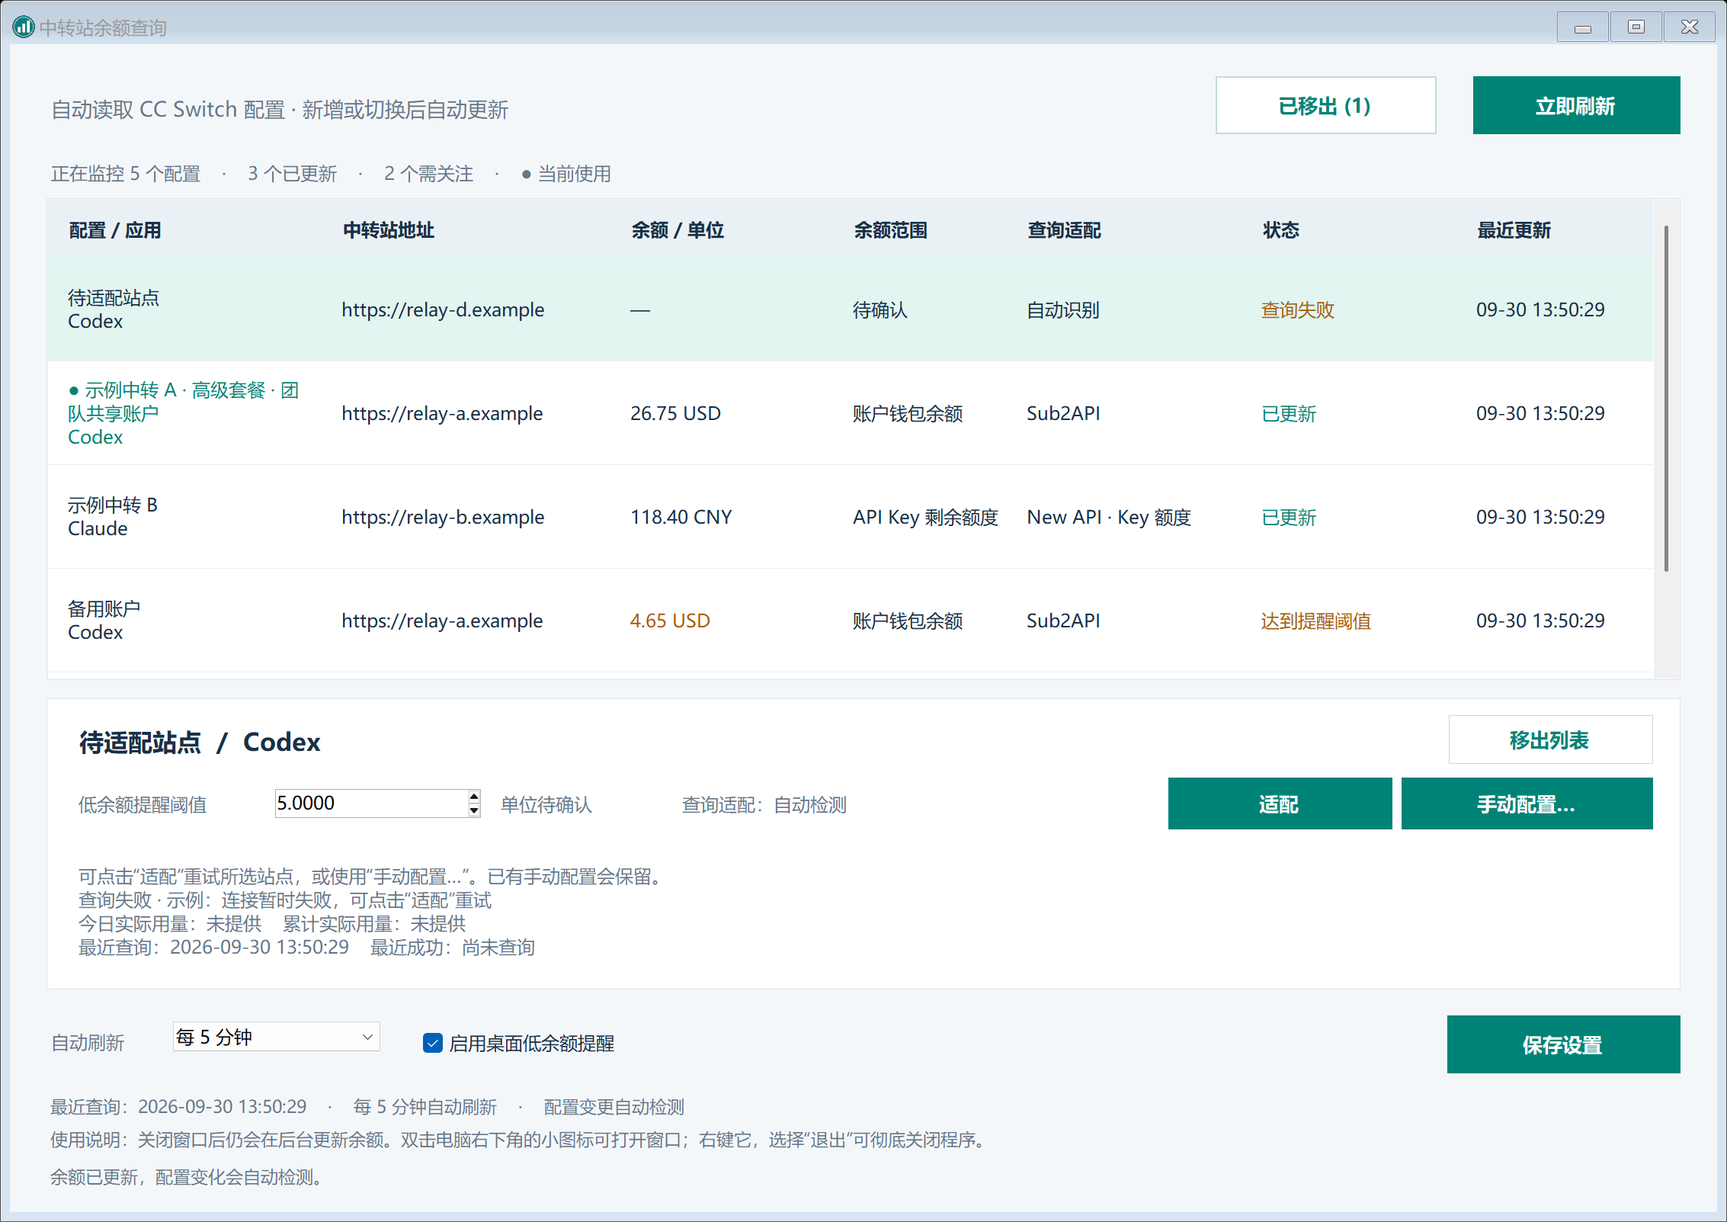
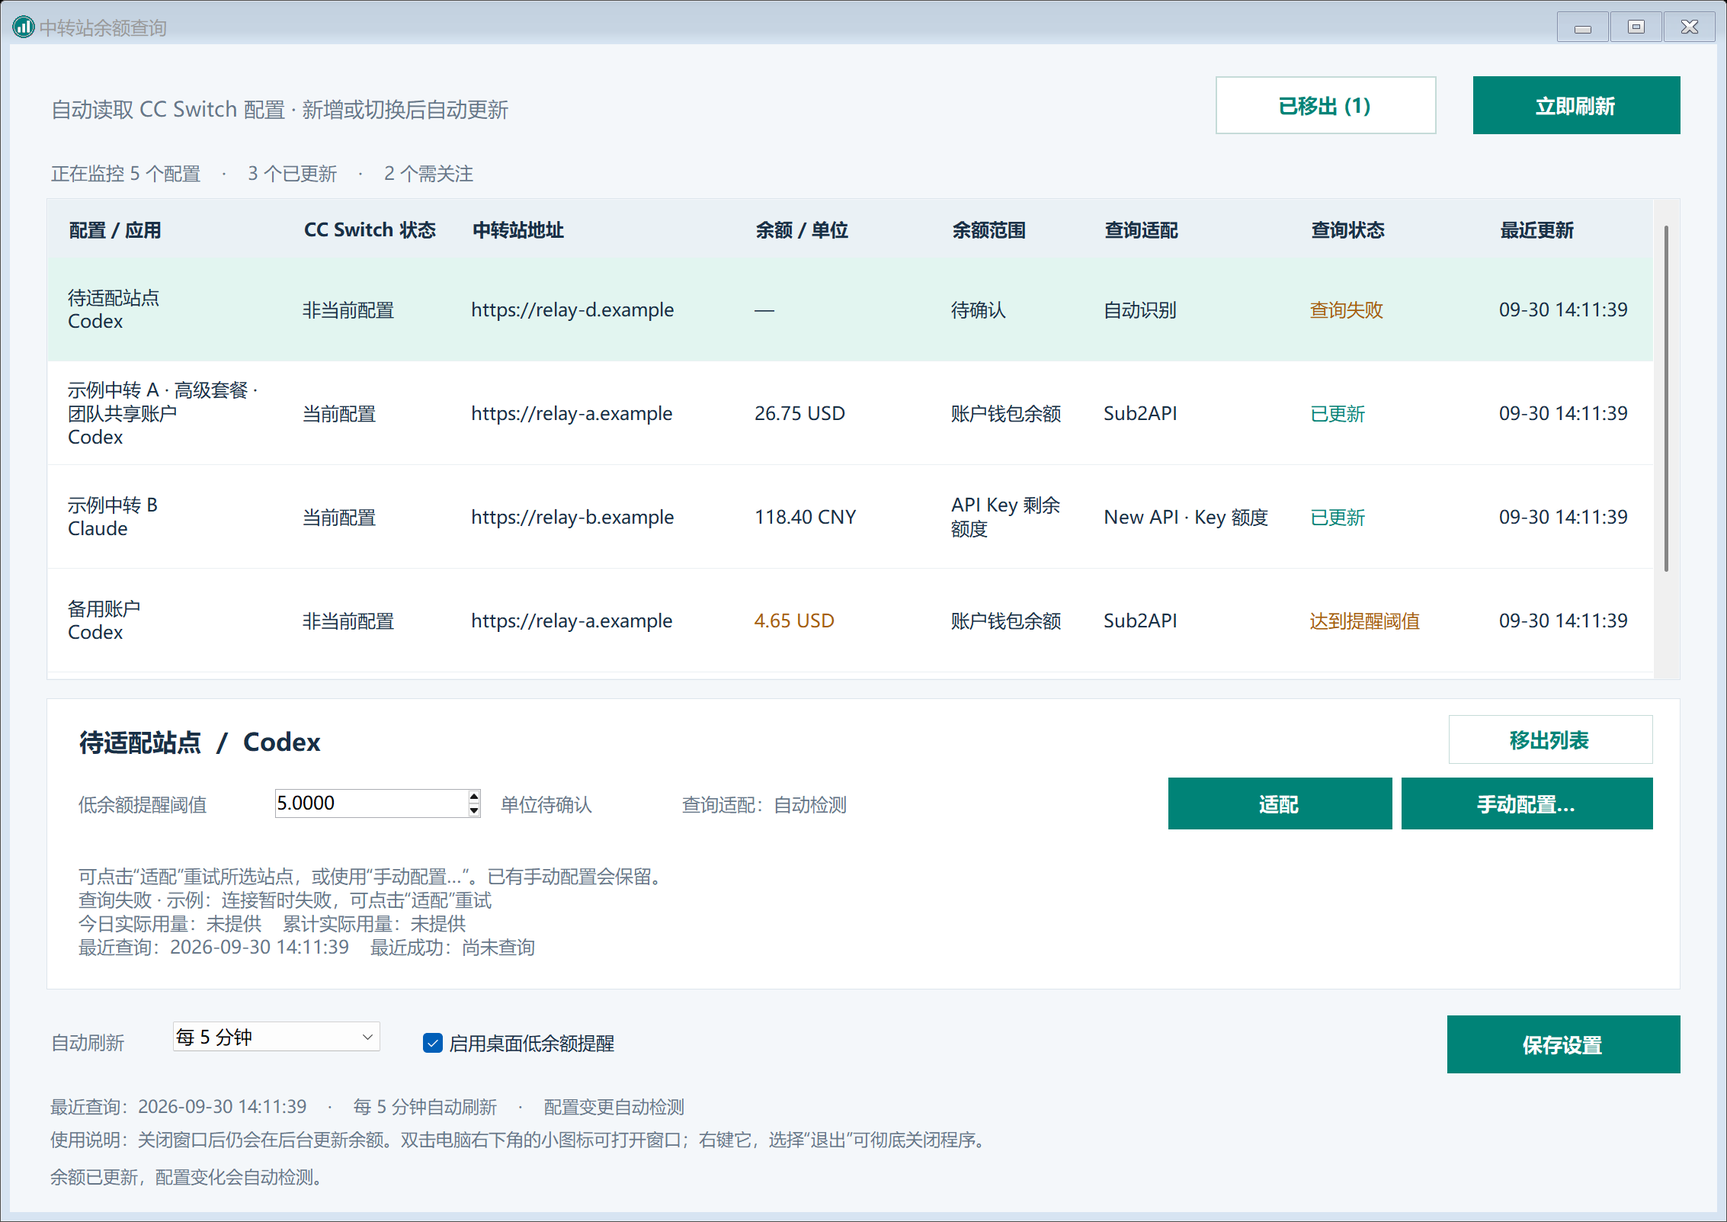
Separate CC Switch current configuration from row selection

diff --git a/src/Program.cs b/src/Program.cs
@@ -15,8 +15,8 @@ using System.Windows.Forms;
 [assembly: AssemblyDescription("自动发现 CC Switch 配置的本地 API 余额监控")]
 [assembly: AssemblyCompany("Relay Balance contributors")]
 [assembly: AssemblyProduct("Relay Balance Desktop")]
-[assembly: AssemblyVersion("1.1.5.0")]
-[assembly: AssemblyFileVersion("1.1.5.0")]
+[assembly: AssemblyVersion("1.1.6.0")]
+[assembly: AssemblyFileVersion("1.1.6.0")]
 
 namespace RelayBalanceDesktop
 {
@@ -74,7 +74,7 @@ namespace RelayBalanceDesktop
                 providers = new List<ProviderSnapshot>
                 {
                     new ProviderSnapshot { id="p-00000000000000000001",name="示例中转 A · 高级套餐 · 团队共享账户",app="codex",origin="https://relay-a.example",status="ok",remaining=26.7500,unit="USD",todayUsage=1.2500,totalUsage=73.25,threshold=5,current=true,adapter="sub2api",adapterLabel="Sub2API",balanceKindLabel="账户钱包余额",message="示例数据；余额来自站点接口，用量为当前 API Key 实际花费",updatedAt=time,lastSuccessAt=time },
-                    new ProviderSnapshot { id="p-00000000000000000002",name="示例中转 B",app="claude",origin="https://relay-b.example",status="ok",remaining=118.4000,unit="CNY",totalUsage=482.10,threshold=5,adapter="newapi-token",adapterLabel="New API · Key 额度",balanceKindLabel="API Key 剩余额度",message="示例数据；按站点公布比例换算，非账户钱包",updatedAt=time,lastSuccessAt=time },
+                    new ProviderSnapshot { id="p-00000000000000000002",name="示例中转 B",app="claude",origin="https://relay-b.example",status="ok",remaining=118.4000,unit="CNY",totalUsage=482.10,threshold=5,current=true,adapter="newapi-token",adapterLabel="New API · Key 额度",balanceKindLabel="API Key 剩余额度",message="示例数据；按站点公布比例换算，非账户钱包",updatedAt=time,lastSuccessAt=time },
                     new ProviderSnapshot { id="p-00000000000000000003",name="备用账户",app="codex",origin="https://relay-a.example",status="ok",remaining=4.6500,unit="USD",todayUsage=0,totalUsage=95.35,threshold=5,lowBalance=true,adapter="sub2api",adapterLabel="Sub2API",balanceKindLabel="账户钱包余额",message="示例数据；同站点不同配置分别显示",updatedAt=time,lastSuccessAt=time },
                     new ProviderSnapshot { id="p-00000000000000000004",name="未获取账户余额的示例配置",app="gemini",origin="https://relay-c.example",status="ok",remaining=null,unit="quota",threshold=5,unlimited=true,adapter="newapi-token",adapterLabel="New API · Key 额度",balanceKindLabel="API Key 限额（非余额）",message="API Key未设限额，不代表账户资金无限；当前Key未返回账户余额",updatedAt=time,lastSuccessAt=time },
                     new ProviderSnapshot { id="p-00000000000000000005",name="待适配站点",app="codex",origin="https://relay-d.example",status="unsupported",threshold=5,adapter="auto",adapterLabel="自动识别",message="适配失败，可点击“适配”重新尝试。手动配置可随时使用",updatedAt=time }
@@ -239,6 +239,28 @@ namespace RelayBalanceDesktop
                 form.Close();
             }
         }
+        private static void TestCurrentConfigurationPresentation()
+        {
+            using(BackendClient backend=new BackendClient())
+            using(BalanceForm form=new BalanceForm(backend,true))
+            {
+                form.StartPosition=FormStartPosition.Manual;form.Location=new Point(-30000,-30000);form.ShowInTaskbar=false;form.Show();
+                Snapshot snapshot=DemoSnapshot();form.ApplySnapshot(snapshot);Application.DoEvents();
+                DataGridView grid=FormField<DataGridView>(form,"_grid");
+                if(grid.Columns["ccSwitch"].DisplayIndex!=1 || grid.Columns["status"].HeaderText!="查询状态")throw new Exception("CC Switch status is not separate from query status");
+                if((string)grid.Rows[0].Cells["ccSwitch"].Value!="当前配置" || (string)grid.Rows[1].Cells["ccSwitch"].Value!="当前配置" || (string)grid.Rows[2].Cells["ccSwitch"].Value!="非当前配置")throw new Exception("per-application current configuration labels");
+                grid.CurrentCell=grid.Rows[2].Cells["provider"];Application.DoEvents();
+                if((string)grid.Rows[0].Cells["ccSwitch"].Value!="当前配置" || (string)grid.Rows[2].Cells["ccSwitch"].Value!="非当前配置")throw new Exception("row selection changes current configuration");
+                foreach(DataGridViewRow row in grid.Rows)
+                    if(((string)row.Cells["provider"].Value).StartsWith("● ") || row.Cells["provider"].InheritedStyle.ForeColor!=grid.DefaultCellStyle.ForeColor)throw new Exception("current configuration decorates provider name");
+                snapshot.providers[0].current=false;snapshot.providers[2].current=true;
+                form.ApplySnapshot(snapshot);Application.DoEvents();
+                if(grid.CurrentRow==null || (string)grid.CurrentRow.Tag!=snapshot.providers[2].id || !grid.Rows[2].Selected)throw new Exception("current configuration refresh changes selected row");
+                if((string)grid.Rows[0].Cells["ccSwitch"].Value!="非当前配置" || (string)grid.Rows[1].Cells["ccSwitch"].Value!="当前配置" || (string)grid.Rows[2].Cells["ccSwitch"].Value!="当前配置")throw new Exception("current configuration change not reflected");
+                if(FormField<Label>(form,"_summaryLabel").Text.Contains("●") || FormField<Label>(form,"_selectedTitle").Text.Contains("当前使用"))throw new Exception("ambiguous current-use label remains");
+                form.Close();
+            }
+        }
         private static void TestBalancePresentation()
         {
             using(BackendClient backend=new BackendClient())
@@ -247,7 +269,7 @@ namespace RelayBalanceDesktop
                 form.StartPosition=FormStartPosition.Manual;form.Location=new Point(-30000,-30000);form.ShowInTaskbar=false;form.Show();
                 Snapshot snapshot=DemoSnapshot();form.ApplySnapshot(snapshot);Application.DoEvents();AssertContentTitleRemoved(form);
                 DataGridView grid=FormField<DataGridView>(form,"_grid");
-                if((string)grid.Rows[3].Cells[2].Value!="未获取账户余额" || (string)grid.Rows[3].Cells[5].Value!="余额未获取")throw new Exception("unlimited key presented as account balance");
+                if((string)grid.Rows[3].Cells["balance"].Value!="未获取账户余额" || (string)grid.Rows[3].Cells["status"].Value!="余额未获取")throw new Exception("unlimited key presented as account balance");
                 if(!FormField<Label>(form,"_summaryLabel").Text.Contains("2 个需关注"))throw new Exception("missing account balance not flagged");
                 grid.CurrentCell=grid.Rows[3].Cells[0];Application.DoEvents();
                 if(!FormField<Label>(form,"_details").Text.Contains("当前Key未返回账户余额"))throw new Exception("unlimited key explanation missing");
@@ -257,11 +279,11 @@ namespace RelayBalanceDesktop
                 Dictionary<string,bool> pending=FormField<Dictionary<string,bool>>(form,"_pendingVisibility");pending[snapshot.providers[3].id]=true;
                 typeof(BalanceForm).GetMethod("ShowSelection",BindingFlags.NonPublic|BindingFlags.Instance).Invoke(form,null);if(getBalance.Enabled)throw new Exception("retrieval visibility guard");pending.Clear();
                 snapshot.providers[3].adapterConfig=new AdapterConfig{type="newapi-token",amountMode="manual",unit="CNY",divisor=500000,balanceKind="account"};snapshot.providers[3].unit="CNY";snapshot.providers[3].usageUnit="USD";snapshot.providers[3].todayUsage=1.25;
-                form.ApplySnapshot(snapshot);Application.DoEvents();if((string)grid.Rows[3].Cells[2].Value!="未获取账户余额" || !FormField<Label>(form,"_details").Text.Contains("1.25 USD"))throw new Exception("manual amount fabricated balance or changed usage unit");
+                form.ApplySnapshot(snapshot);Application.DoEvents();if((string)grid.Rows[3].Cells["balance"].Value!="未获取账户余额" || !FormField<Label>(form,"_details").Text.Contains("1.25 USD"))throw new Exception("manual amount fabricated balance or changed usage unit");
                 snapshot.providers[3].adapter="newapi-account";snapshot.providers[3].balanceKindLabel="账户余额";snapshot.providers[3].remaining=26.75;snapshot.providers[3].unit="USD";
-                form.ApplySnapshot(snapshot);Application.DoEvents();if((string)grid.Rows[3].Cells[2].Value!="26.75 USD")throw new Exception("real account balance hidden");
+                form.ApplySnapshot(snapshot);Application.DoEvents();if((string)grid.Rows[3].Cells["balance"].Value!="26.75 USD")throw new Exception("real account balance hidden");
                 snapshot.providers[3].adapter="sub2api";snapshot.providers[3].balanceKindLabel="订阅剩余额度";snapshot.providers[3].remaining=null;
-                form.ApplySnapshot(snapshot);Application.DoEvents();if((string)grid.Rows[3].Cells[2].Value!="不限额")throw new Exception("unlimited subscription changed");
+                form.ApplySnapshot(snapshot);Application.DoEvents();if((string)grid.Rows[3].Cells["balance"].Value!="不限额")throw new Exception("unlimited subscription changed");
                 snapshot.providers.Clear();form.ApplySnapshot(snapshot);Application.DoEvents();
                 AssertActionReachable(FormField<Button>(form,"_hiddenButton"));if(FormField<Button>(form,"_hideButton").Enabled)throw new Exception("empty list remove enabled");
                 snapshot.hiddenProviders.Clear();form.ApplySnapshot(snapshot);Application.DoEvents();AssertActionReachable(FormField<Button>(form,"_hiddenButton"));
@@ -282,7 +304,7 @@ namespace RelayBalanceDesktop
                 Snapshot snapshot=DemoSnapshot();snapshot.providers[0].adapterConfig=new AdapterConfig{type="newapi-token",amountMode="manual",unit="CNY",divisor=500000,balanceKind="key"};
                 snapshot.providers[0].unit="CNY";snapshot.providers[0].usageUnit="USD";form.ApplySnapshot(snapshot);Application.DoEvents();
                 DataGridView grid=FormField<DataGridView>(form,"_grid");grid.CurrentCell=grid.Rows[0].Cells[0];Application.DoEvents();
-                if(!((string)grid.Rows[0].Cells[3].Value).Contains("手动指定") || !FormField<Label>(form,"_details").Text.Contains("1.25 USD"))throw new Exception("manual scope or usage unit presentation");
+                if(!((string)grid.Rows[0].Cells["kind"].Value).Contains("手动指定") || !FormField<Label>(form,"_details").Text.Contains("1.25 USD"))throw new Exception("manual scope or usage unit presentation");
                 CaptureAdapterDialog(form,delegate(Form dialog) {
                     ComboBox type=DialogField<ComboBox>(dialog,"_type"),mode=DialogField<ComboBox>(dialog,"_amountMode"),kind=DialogField<ComboBox>(dialog,"_kind");
                     TextBox unit=DialogField<TextBox>(dialog,"_unit"),path=DialogField<TextBox>(dialog,"_path"),field=DialogField<TextBox>(dialog,"_remainingPath");NumericUpDown divisor=DialogField<NumericUpDown>(dialog,"_divisor");
@@ -434,9 +456,9 @@ namespace RelayBalanceDesktop
                     CheckBox notifications=(CheckBox)typeof(BalanceForm).GetField("_notifications",BindingFlags.NonPublic|BindingFlags.Instance).GetValue(form);
                     if(notifications.Checked)throw new Exception("notification reload");
                 }
-                TestProviderActions();
+                TestProviderActions();TestCurrentConfigurationPresentation();
                 TestBalancePresentation();TestAmountConfiguration();TestVisibilityLifecycle(runtime,fixture);
-                File.WriteAllText(report,"{\"passed\":true,\"checks\":[\"embedded runtime integrity\",\"empty database isolation\",\"dynamic providers\",\"settings persistence\",\"child process cleanup\",\"snapshot validation\",\"minimize to tray\",\"restore from tray\",\"close to tray\",\"tray exit and worker cleanup\",\"notification preference persistence\",\"adaptation and manual buttons reachable after selection refresh and resize\",\"manual configuration opens\",\"wrapped provider names and apps fit after refresh and resize\",\"content title removed\",\"hidden providers validated\",\"remove and restore through actual buttons\",\"visibility preserves unsaved settings\",\"visibility does not modify CC Switch\",\"unlimited key is not an account balance\",\"real account balance and unlimited subscription preserved\",\"missing balance retrieval action and busy guards\",\"built-in manual amount round trip and mode switching\",\"manual amount validation and custom compatibility\",\"usage unit remains independent of manual balance unit\"]}",new UTF8Encoding(false));
+                File.WriteAllText(report,"{\"passed\":true,\"checks\":[\"embedded runtime integrity\",\"empty database isolation\",\"dynamic providers\",\"settings persistence\",\"child process cleanup\",\"snapshot validation\",\"minimize to tray\",\"restore from tray\",\"close to tray\",\"tray exit and worker cleanup\",\"notification preference persistence\",\"adaptation and manual buttons reachable after selection refresh and resize\",\"manual configuration opens\",\"wrapped provider names and apps fit after refresh and resize\",\"content title removed\",\"hidden providers validated\",\"remove and restore through actual buttons\",\"visibility preserves unsaved settings\",\"visibility does not modify CC Switch\",\"unlimited key is not an account balance\",\"real account balance and unlimited subscription preserved\",\"missing balance retrieval action and busy guards\",\"built-in manual amount round trip and mode switching\",\"manual amount validation and custom compatibility\",\"usage unit remains independent of manual balance unit\",\"current configuration remains independent of row selection\"]}",new UTF8Encoding(false));
                 return 0;
             }
             catch (Exception ex) { File.WriteAllText(report,new JavaScriptSerializer().Serialize(new {passed=false,error=ex.Message}),new UTF8Encoding(false));return 1; }

diff --git a/src/BalanceForm.cs b/src/BalanceForm.cs
@@ -131,9 +131,9 @@ namespace RelayBalanceDesktop
             _grid.DefaultCellStyle.Padding = new Padding(10, 10, 0, 10); _grid.DefaultCellStyle.WrapMode = DataGridViewTriState.True;
             _grid.RowTemplate.MinimumHeight = 68; _grid.RowTemplate.Height = 68;
             _grid.AutoSizeRowsMode = DataGridViewAutoSizeRowsMode.AllCellsExceptHeaders;
-            AddColumn("provider", "配置 / 应用", 177, 154); AddColumn("origin", "中转站地址", 191, 140);
+            AddColumn("provider", "配置 / 应用", 177, 154); AddColumn("ccSwitch", "CC Switch 状态", 114, 110); AddColumn("origin", "中转站地址", 191, 140);
             AddColumn("balance", "余额 / 单位", 132, 117); AddColumn("kind", "余额范围", 103, 88);
-            AddColumn("adapter", "查询适配", 139, 110); AddColumn("status", "状态", 127, 110); AddColumn("updated", "最近更新", 117, 104);
+            AddColumn("adapter", "查询适配", 139, 110); AddColumn("status", "查询状态", 127, 110); AddColumn("updated", "最近更新", 117, 104);
             _grid.SelectionChanged += delegate { if (!_updatingGrid) SelectGridProvider(); };
             _grid.CellDoubleClick += delegate(object sender, DataGridViewCellEventArgs e) { if (e.RowIndex >= 0) ConfigureAdapter(); };
             tablePanel.Controls.Add(_grid);
@@ -286,13 +286,12 @@ namespace RelayBalanceDesktop
                     foreach (ProviderSnapshot p in data.providers)
                     {
                         if (p == null || String.IsNullOrEmpty(p.id)) continue; _providers[p.id] = p;
-                        int index = _grid.Rows.Add((p.current ? "● " : "") + p.name + "\r\n" + AppLabel(p.app), p.origin ?? "地址未配置", BalanceText(p), BalanceKindText(p), AdapterDisplay(p), StatusText(p), LocalDate(p.status == "stale" ? p.lastSuccessAt : p.updatedAt, false));
+                        int index = _grid.Rows.Add(p.name + "\r\n" + AppLabel(p.app), p.current ? "当前配置" : "非当前配置", p.origin ?? "地址未配置", BalanceText(p), BalanceKindText(p), AdapterDisplay(p), StatusText(p), LocalDate(p.status == "stale" ? p.lastSuccessAt : p.updatedAt, false));
                         DataGridViewRow row = _grid.Rows[index]; row.Tag = p.id;
-                        row.Cells[2].Style.ForeColor = p.status == "stale" ? Muted : (p.status == "ok" && p.lowBalance ? Warning : Ink);
-                        row.Cells[2].Style.SelectionForeColor = row.Cells[2].Style.ForeColor;
-                        row.Cells[5].Style.ForeColor = p.status == "ok" && !p.lowBalance && !MissingAccountBalance(p) ? Teal : ((p.status == "pending" || p.status == "disabled") ? Muted : Warning);
-                        row.Cells[5].Style.SelectionForeColor = row.Cells[5].Style.ForeColor;
-                        if (p.current) row.Cells[0].Style.ForeColor = Teal;
+                        row.Cells["balance"].Style.ForeColor = p.status == "stale" ? Muted : (p.status == "ok" && p.lowBalance ? Warning : Ink);
+                        row.Cells["balance"].Style.SelectionForeColor = row.Cells["balance"].Style.ForeColor;
+                        row.Cells["status"].Style.ForeColor = p.status == "ok" && !p.lowBalance && !MissingAccountBalance(p) ? Teal : ((p.status == "pending" || p.status == "disabled") ? Muted : Warning);
+                        row.Cells["status"].Style.SelectionForeColor = row.Cells["status"].Style.ForeColor;
                         if (p.status == "ok" && !MissingAccountBalance(p)) good++; else if (p.status != "pending" && p.status != "disabled") needsAttention++;
                         if (String.Equals(p.id, preserveId, StringComparison.Ordinal)) selectedIndex = index; HandleLowBalance(p);
                     }
@@ -308,7 +307,7 @@ namespace RelayBalanceDesktop
                 else _selectedId = null;
                 _emptyLabel.Text = _hiddenProviders.Count > 0 ? "列表中暂时没有监控项\r\n点击右上“已移出”可恢复配置，继续监控。" : "尚未发现可查询的中转站配置\r\n请先在 CC Switch 中添加 API 配置，再点击立即刷新。";
                 _emptyLabel.Visible = _grid.Rows.Count == 0; if (_emptyLabel.Visible) _emptyLabel.BringToFront();
-                _summaryLabel.Text = "正在监控 " + _providers.Count.ToString(CultureInfo.InvariantCulture) + " 个配置    ·    " + good.ToString(CultureInfo.InvariantCulture) + " 个已更新" + (needsAttention > 0 ? "    ·    " + needsAttention.ToString(CultureInfo.InvariantCulture) + " 个需关注" : "") + "    ·    ● 当前使用";
+                _summaryLabel.Text = "正在监控 " + _providers.Count.ToString(CultureInfo.InvariantCulture) + " 个配置    ·    " + good.ToString(CultureInfo.InvariantCulture) + " 个已更新" + (needsAttention > 0 ? "    ·    " + needsAttention.ToString(CultureInfo.InvariantCulture) + " 个需关注" : "");
                 List<string> removed = new List<string>(); foreach (string id in _lastLow.Keys) if (!_providers.ContainsKey(id)) removed.Add(id); foreach (string id in removed) _lastLow.Remove(id);
             }
             finally { _grid.AutoSizeRowsMode = DataGridViewAutoSizeRowsMode.AllCellsExceptHeaders; _grid.ResumeLayout(); _updatingGrid = false; }
@@ -377,7 +376,7 @@ namespace RelayBalanceDesktop
                 _thresholdUnit.Text = ""; _selectedAdapter.Text = "查询适配：自动检测"; _retryDetectionButton.Visible = false; _adapterButton.Text = "手动配置…";
                 _details.Text = "先在 CC Switch 中添加带有 API 地址的配置。无法自动识别的站点可按站点文档设置查询适配。"; return;
             }
-            _selectedTitle.Text = p.name + "  /  " + AppLabel(p.app) + (p.current ? "  ·  当前使用" : "");
+            _selectedTitle.Text = p.name + "  /  " + AppLabel(p.app);
             _updatingSettings = true; try { double value; if (_thresholds.TryGetValue(p.id, out value)) SetNumericValue(_threshold, value); } finally { _updatingSettings = false; }
             _threshold.Enabled = !_waitingForSettings; _adapterButton.Enabled = !_waitingForSettings; _thresholdUnit.Text = UnitLabel(p.unit); _hideButton.Enabled = !_pendingVisibility.ContainsKey(p.id);
             _tips.SetToolTip(_threshold, "余额小于或等于此值时提醒。支持 USD、CNY、EUR、GBP、JPY、HKD；原始额度暂不触发金额提醒。设为 0 可停用正余额提醒。");

diff --git a/src/RuntimeBundle.cs b/src/RuntimeBundle.cs
@@ -10,7 +10,7 @@ namespace RelayBalanceDesktop
     {
         public static string Prepare()
         {
-            string directory = Path.Combine(Program.DataDirectory, "runtime", "1.1.5-" + RuntimeManifest.PayloadId);
+            string directory = Path.Combine(Program.DataDirectory, "runtime", "1.1.6-" + RuntimeManifest.PayloadId);
             Directory.CreateDirectory(directory);
             Extract(directory, "node.exe", "Payload.Node", RuntimeManifest.NodeHash, true);
             Extract(directory, "core.mjs", "Payload.Core", RuntimeManifest.CoreHash, false);
